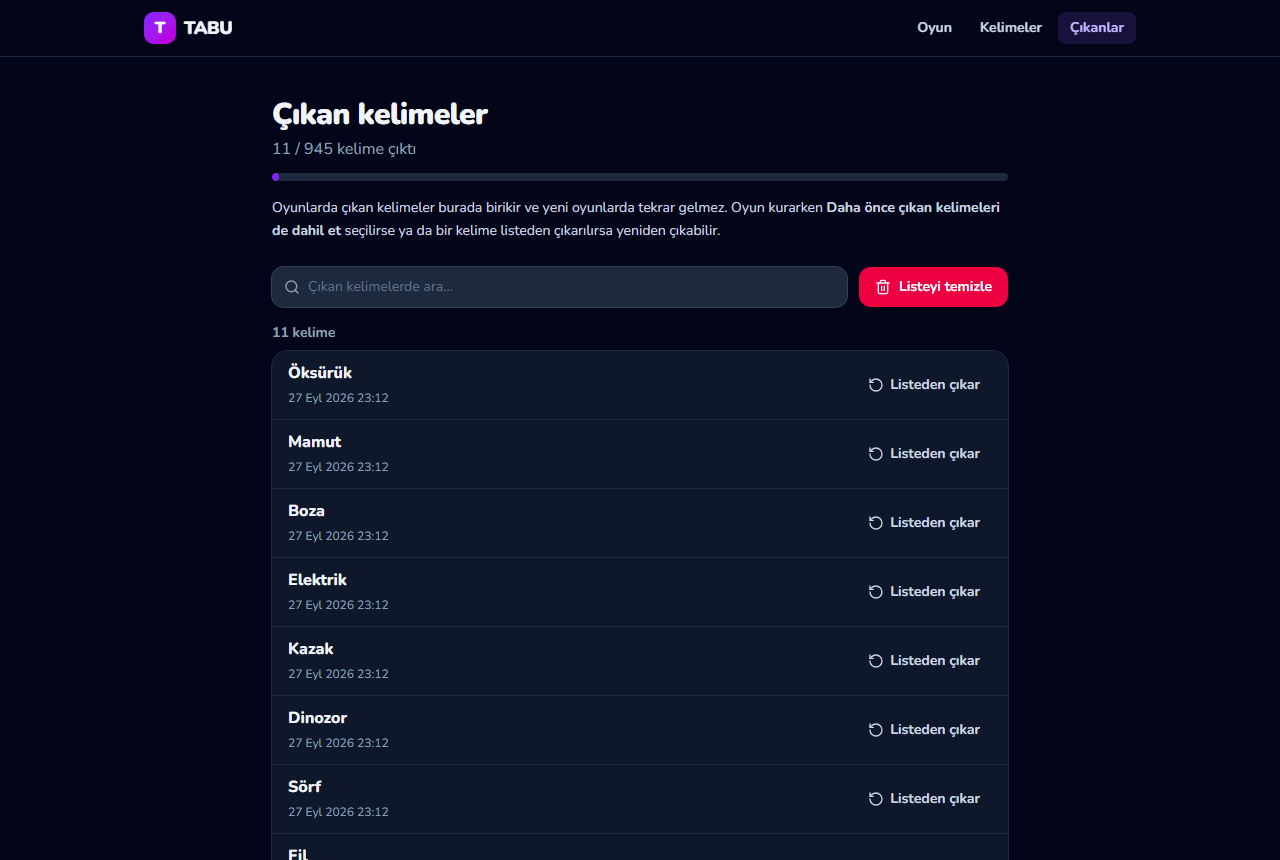
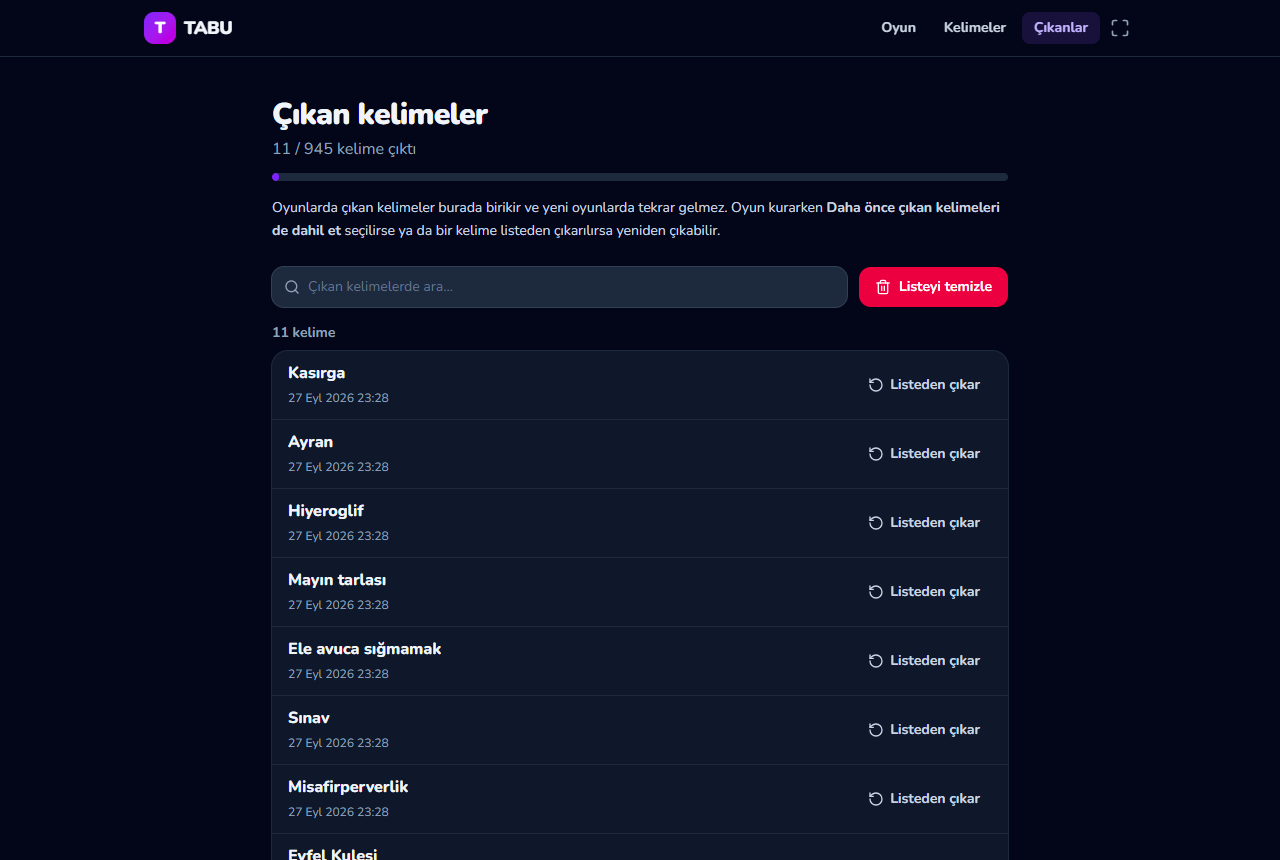
Tam ekran düğmesi; README'de bağlantılar adres yerine metin
- Oyun ekranının ve sitenin üst çubuğunda tam ekran düğmesi; tarayıcı izin vermiyorsa
  (iPhone'da Safari) görünmez. Esc ya da geri hareketiyle çıkınca da düğme güncellenir.
- Tam ekranda üst çubuklar telefonun kamera çentiğinin altında kalmaz (safe-area-inset-top)
- Dar telefonlarda (384 px altı) üst menüde logonun sadece rozeti görünür, düğmeye yer açılır
- README'deki GitHub Pages bağlantıları adres yerine metin; ekran görüntüleri yenilendi
- dev:static ek argümanları Next.js'e iletir; launch.json'a tabu-static eklendi

diff --git a/src/components/site-header.tsx b/src/components/site-header.tsx
@@ -3,6 +3,7 @@
 import Link from 'next/link';
 import { usePathname } from 'next/navigation';
 import { cn } from '@/lib/cn';
+import { FullscreenButton } from './ui/fullscreen-button';
 import { Logo } from './ui/logo';
 
 const LINKS = [
@@ -14,31 +15,35 @@ const LINKS = [
 export function SiteHeader() {
   const pathname = usePathname();
   return (
-    <header className="sticky top-0 z-30 border-b border-slate-200/70 bg-white/80 backdrop-blur dark:border-slate-800 dark:bg-slate-950/80">
-      <div className="mx-auto flex h-14 max-w-5xl items-center justify-between px-4">
+    // The top inset keeps the header clear of a phone's camera cutout in full screen.
+    <header className="sticky top-0 z-30 border-b border-slate-200/70 bg-white/80 pt-[env(safe-area-inset-top)] backdrop-blur dark:border-slate-800 dark:bg-slate-950/80">
+      <div className="mx-auto flex h-14 max-w-5xl items-center justify-between gap-2 px-4">
         <Link href="/" className="text-lg">
-          <Logo />
+          <Logo compact />
         </Link>
-        <nav className="flex gap-1">
-          {LINKS.map((link) => {
-            const active = link.href === '/' ? pathname === '/' : pathname.startsWith(link.href);
-            return (
-              <Link
-                key={link.href}
-                href={link.href}
-                aria-current={active ? 'page' : undefined}
-                className={cn(
-                  'rounded-lg px-2.5 py-1.5 text-sm font-bold transition sm:px-3',
-                  active
-                    ? 'bg-violet-100 text-violet-700 dark:bg-violet-500/15 dark:text-violet-300'
-                    : 'text-slate-600 hover:bg-slate-100 dark:text-slate-300 dark:hover:bg-slate-800',
-                )}
-              >
-                {link.label}
-              </Link>
-            );
-          })}
-        </nav>
+        <div className="flex items-center gap-1">
+          <nav className="flex gap-1">
+            {LINKS.map((link) => {
+              const active = link.href === '/' ? pathname === '/' : pathname.startsWith(link.href);
+              return (
+                <Link
+                  key={link.href}
+                  href={link.href}
+                  aria-current={active ? 'page' : undefined}
+                  className={cn(
+                    'rounded-lg px-2.5 py-1.5 text-sm font-bold transition sm:px-3',
+                    active
+                      ? 'bg-violet-100 text-violet-700 dark:bg-violet-500/15 dark:text-violet-300'
+                      : 'text-slate-600 hover:bg-slate-100 dark:text-slate-300 dark:hover:bg-slate-800',
+                  )}
+                >
+                  {link.label}
+                </Link>
+              );
+            })}
+          </nav>
+          <FullscreenButton />
+        </div>
       </div>
     </header>
   );

diff --git a/src/components/game/game-screen.tsx b/src/components/game/game-screen.tsx
@@ -8,6 +8,7 @@ import { backend } from '@/lib/backend';
 import { gameStorage, gameStore, useGame } from '@/lib/game-store';
 import { setMuted } from '@/lib/sound';
 import { buttonClasses, IconButton } from '../ui/button';
+import { FullscreenButton } from '../ui/fullscreen-button';
 import { Logo } from '../ui/logo';
 import { GameSummary } from './game-summary';
 import { TurnIntro } from './turn-intro';
@@ -72,7 +73,8 @@ function GameView({ game }: { game: GameState }) {
   };
 
   return (
-    <div className="flex min-h-dvh flex-col">
+    // In full screen the page reaches under a phone's camera cutout; the inset keeps the header clear of it.
+    <div className="flex min-h-dvh flex-col pt-[env(safe-area-inset-top)]">
       <header className="mx-auto flex h-14 w-full max-w-xl items-center justify-between px-4">
         <Link href="/" aria-label="Ana sayfa (oyun kayıtlı kalır)">
           <Logo />
@@ -84,6 +86,7 @@ function GameView({ game }: { game: GameState }) {
           <IconButton label={muted ? 'Sesi aç' : 'Sesi kapat'} onClick={toggleSound}>
             {muted ? <VolumeX className="size-5" /> : <Volume2 className="size-5" />}
           </IconButton>
+          <FullscreenButton />
           {phase.name !== 'finished' && (
             <IconButton label="Oyunu bitir" onClick={endGame}>
               <Flag className="size-5" />

diff --git a/src/lib/hooks.ts b/src/lib/hooks.ts
@@ -58,6 +58,36 @@ export function useNow(intervalMs: number, active: boolean): number {
   return now;
 }
 
+const subscribeFullscreen = (onChange: () => void) => {
+  document.addEventListener('fullscreenchange', onChange);
+  return () => document.removeEventListener('fullscreenchange', onChange);
+};
+
+function toggleFullscreen(): void {
+  const change = document.fullscreenElement
+    ? document.exitFullscreen()
+    : document.documentElement.requestFullscreen({ navigationUI: 'hide' });
+  change.catch(() => undefined);
+}
+
+/**
+ * Full screen for the whole page. Not `supported` before hydration or where browsers allow it only for videos
+ * (Safari on iPhone). `active` follows every way out too (Esc, the back gesture).
+ */
+export function useFullscreen() {
+  const supported = useSyncExternalStore(
+    subscribeNothing,
+    () => document.fullscreenEnabled === true,
+    () => false,
+  );
+  const active = useSyncExternalStore(
+    subscribeFullscreen,
+    () => Boolean(document.fullscreenElement),
+    () => false,
+  );
+  return { supported, active, toggle: toggleFullscreen };
+}
+
 /** Keeps the screen awake while `active` (needs a secure context; silently skipped otherwise). */
 export function useWakeLock(active: boolean): void {
   useEffect(() => {

diff --git a/src/components/ui/logo.tsx b/src/components/ui/logo.tsx
@@ -1,12 +1,13 @@
 import { cn } from '@/lib/cn';
 
-export function Logo({ className }: { className?: string }) {
+/** `compact`: just the badge on narrow phones, for a header that needs the room. */
+export function Logo({ className, compact = false }: { className?: string; compact?: boolean }) {
   return (
     <span className={cn('inline-flex items-center gap-2 font-black tracking-tight', className)}>
       <span className="grid size-8 place-items-center rounded-[10px] bg-gradient-to-br from-violet-600 to-fuchsia-600 text-base text-white shadow-sm">
         T
       </span>
-      TABU
+      <span className={cn(compact && 'max-[24rem]:sr-only')}>TABU</span>
     </span>
   );
 }

diff --git a/src/components/ui/fullscreen-button.tsx b/src/components/ui/fullscreen-button.tsx
@@ -1,0 +1,16 @@
+'use client';
+
+import { Maximize, Minimize } from 'lucide-react';
+import { useFullscreen } from '@/lib/hooks';
+import { IconButton } from './button';
+
+/** Toggles full screen; not shown where the browser doesn't allow it (Safari on iPhone). */
+export function FullscreenButton() {
+  const { supported, active, toggle } = useFullscreen();
+  if (!supported) return null;
+  return (
+    <IconButton label={active ? 'Tam ekrandan çık' : 'Tam ekran'} onClick={toggle}>
+      {active ? <Minimize className="size-5" /> : <Maximize className="size-5" />}
+    </IconButton>
+  );
+}

diff --git a/README.md b/README.md
@@ -6,7 +6,7 @@
 
 945 hazır kelime · 30 kategori · birikimli 3 zorluk seviyesi · telefonda oynamaya uygun arayüz
 
-### [Tarayıcıda aç: fignupafya.github.io/tabu](https://fignupafya.github.io/tabu/)
+### [Tarayıcıda aç](https://fignupafya.github.io/tabu/)
 
 Kurulum gerekmez; bilgisayarda da telefonda da çalışır.
 
@@ -33,7 +33,8 @@ Kurulum gerekmez; bilgisayarda da telefonda da çalışır.
 - **Kaldığın yerden devam:** Oyun tarayıcıda kayıtlı kalır. Oyun ortasında sayfa kapanır, telefon kilitlenir
   ya da başka uygulamaya geçersen sıra otomatik duraklar; döndüğünde kalan süreyle devam edersin.
 - **Kelime yönetimi:** Arayüzden kelime ekle/düzenle/sil, JSON dosyası içe/dışa aktar, komut satırı aracı.
-- **Telefona uygun:** Büyük butonlar, ekranın kararmaması (https'te), ses efektleri ve titreşim, klavye kısayolları.
+- **Telefona uygun:** Büyük butonlar, tam ekran, ekranın kararmaması (https'te), ses efektleri ve titreşim,
+  klavye kısayolları.
 - **İki çalışma şekli:** Sunucusuz statik site olarak (GitHub Pages) ya da kendi bilgisayarında/sunucunda.
   Ayrıntılar aşağıda, [Tarayıcı sürümü ve kendi sunucun](#tarayıcı-sürümü-ve-kendi-sunucun) bölümünde.
 
@@ -74,8 +75,8 @@ Tarayıcı sürümünde:
 
 ## Kurulum ve açma
 
-Tarayıcı sürümü için kurulum gerekmez, [fignupafya.github.io/tabu](https://fignupafya.github.io/tabu/)
-adresini açman yeterli. Kendi bilgisayarında çalıştırmak için kısaca (Node.js kuruluysa):
+Tarayıcı sürümü için kurulum gerekmez, [tarayıcıda açman](https://fignupafya.github.io/tabu/) yeterli.
+Kendi bilgisayarında çalıştırmak için kısaca (Node.js kuruluysa):
 
 ```bash
 git clone https://github.com/fignupafya/tabu.git
@@ -307,4 +308,6 @@ alınır; elle derlerken `PAGES_BASE_PATH=/tabu npm run build:static` kullan.
   Vercel gibi sunucusuz ortamlarda eklenen kelimeler kalıcı olmaz. Orada ya tarayıcı sürümünü yayınla
   (herkesin değişiklikleri kendi cihazında kalır) ya da bir veritabanı adaptörü yaz.
 - Ekranın kararmasını engelleme özelliği tarayıcılarda sadece güvenli bağlantıda (https ya da localhost) çalışır.
+- Tam ekran düğmesi iPhone'da görünmez: Safari, iPhone'da sayfaların tam ekran açılmasına izin vermiyor.
+  Android'de, iPad'de ve bilgisayarda çalışır.
 - Tailwind CSS 4 kullanıldığı için modern tarayıcı gerekir (iOS 16.4+, Chrome 111+).
